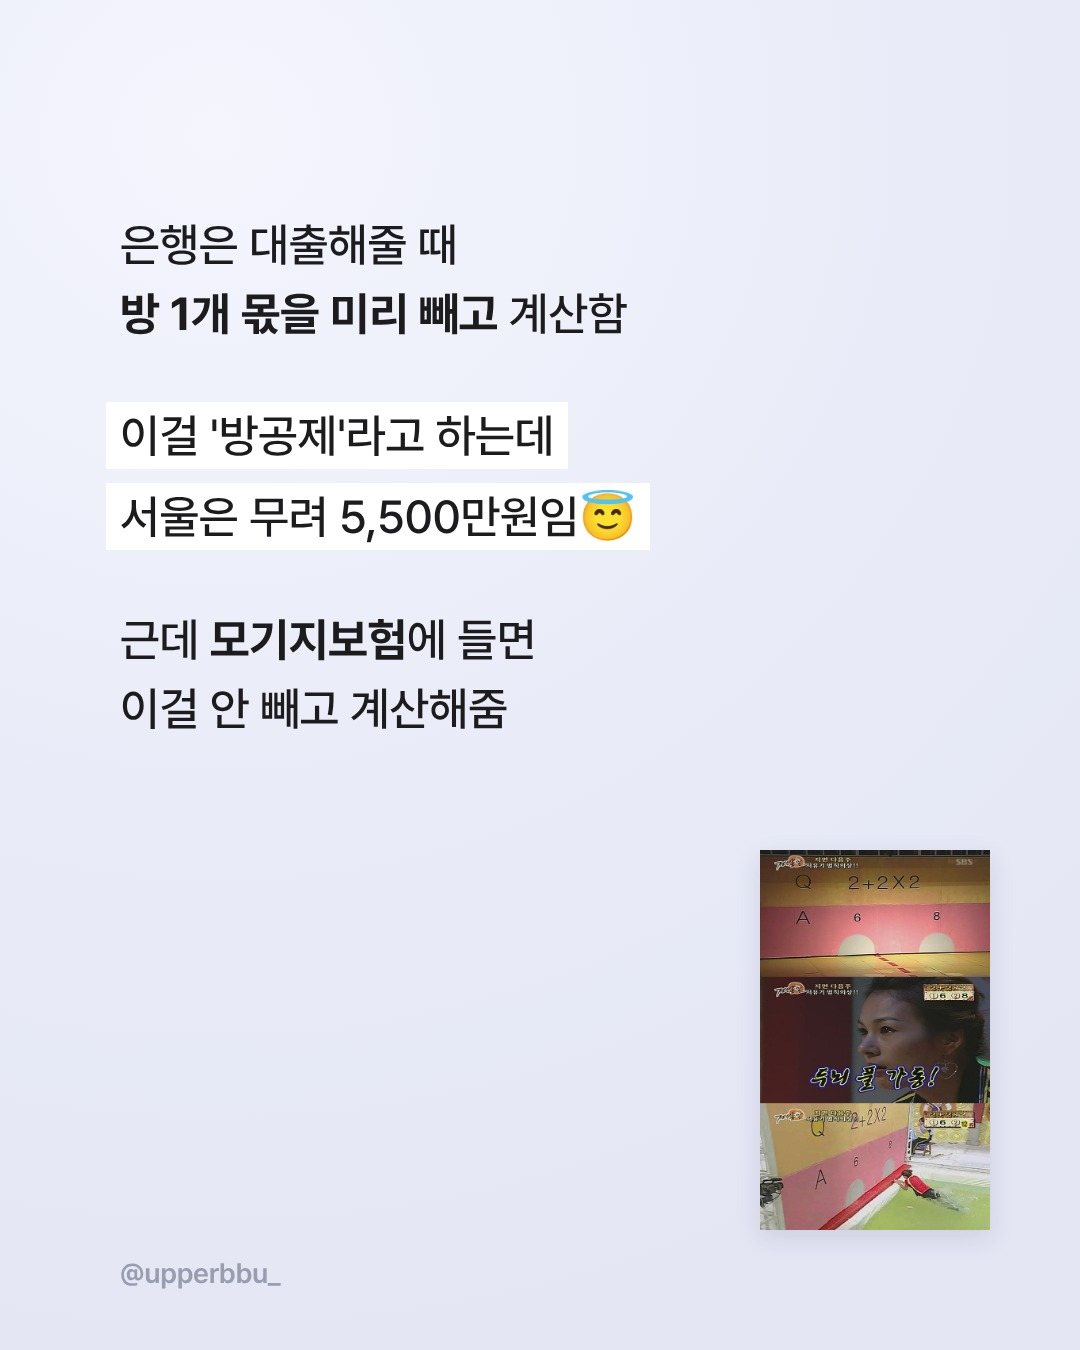
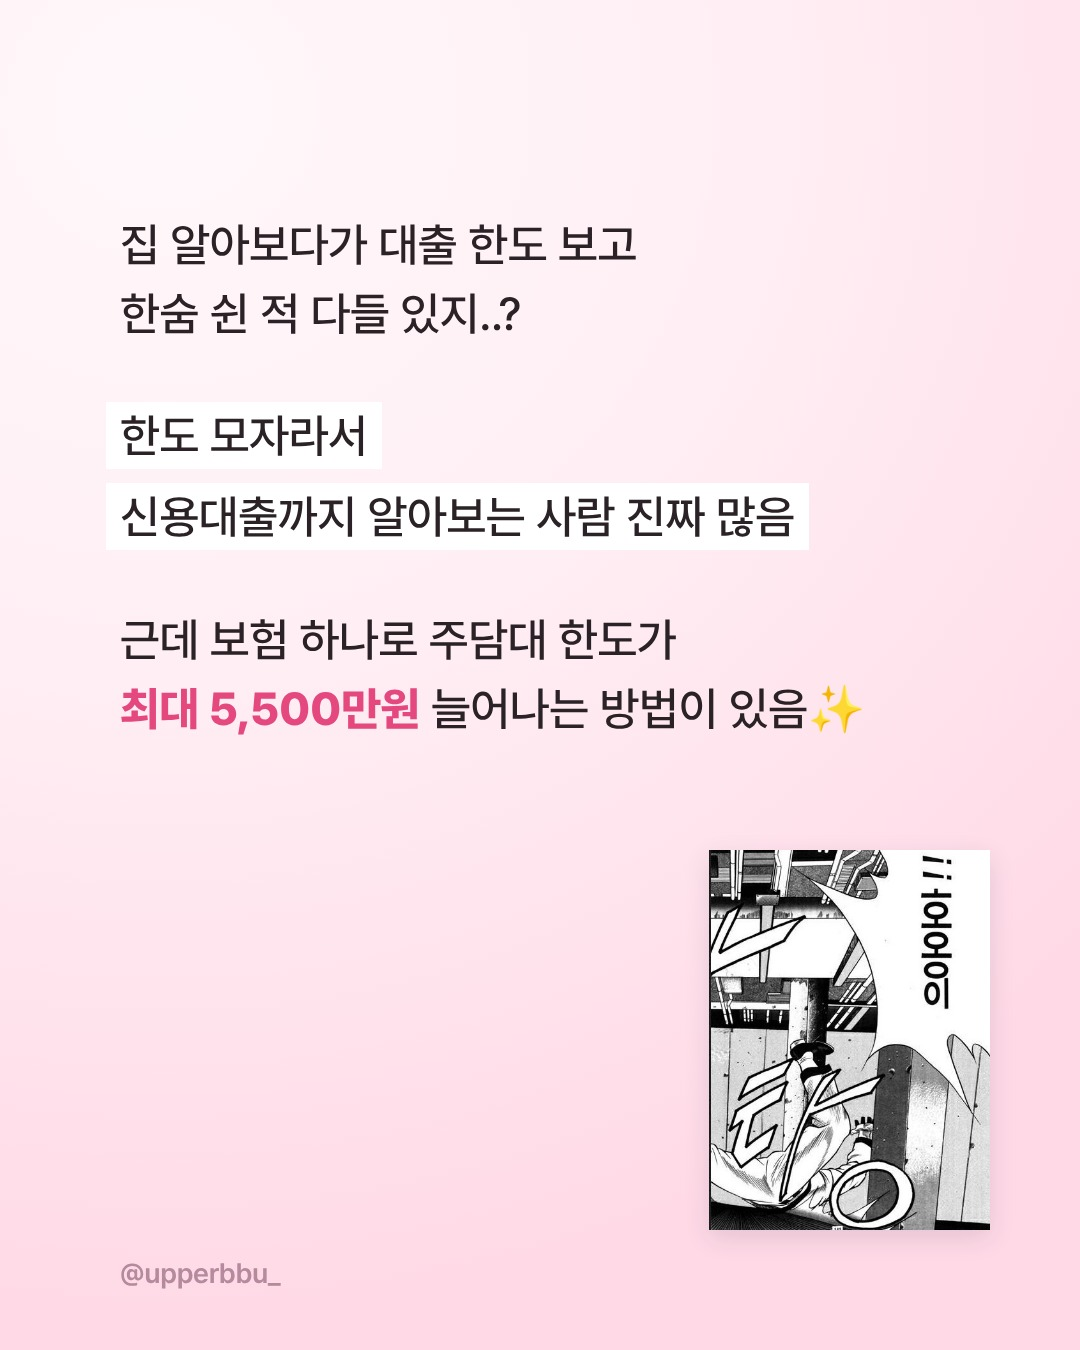
표지 레이아웃(사진+말풍선+큰 제목+색 띠) 추가, 파스텔 핑크·노랑 톤으로 변경
Claude-Session: https://claude.ai/code/session_01FfMhJ4kH7Xvbi7mmnKWXqm

diff --git a/notes.css b/notes.css
@@ -1,21 +1,38 @@
 /* 글 위주 카드 (레퍼런스: 연한 배경 + 일기체 글 + 흰 박스 강조 + 한쪽에 작은 밈), 1080×1350 */
-:root { --ink: #1c1c1e; --soft: #6b6b75; }
+/* 톤앤매너 (2026-11-22): 파스텔 핑크 + 파스텔 노랑 */
+:root { --ink: #2a2226; --soft: #8a7480; --p-pink: #FFD9E6; --p-pink-2: #FFEFF4; --p-yellow: #FFF1A8; --accent: #E5487E; }
 body { width: 1080px; background: #fff; }
 .note { width: 1080px; height: 1350px; position: relative; overflow: hidden; color: var(--ink);
   font-family: 'Pretendard', sans-serif; letter-spacing: -0.02em; word-break: keep-all;
-  background: radial-gradient(120% 90% at 20% 10%, #F4F5FD 0%, #E9ECF8 55%, #E4E6F4 100%); }
+  background: radial-gradient(120% 90% at 15% 8%, #FFF8FA 0%, var(--p-pink-2) 45%, var(--p-pink) 100%); }
+/* 짝수 장은 파스텔 노랑 배경으로 번갈아 */
+.note.alt { background: radial-gradient(120% 90% at 15% 8%, #FFFDF2 0%, #FFF8D6 45%, var(--p-yellow) 100%); }
 .note .page { position: absolute; top: 210px; left: 120px; right: 110px; bottom: 120px; }
 .note p { font: 500 46px/1.5 'Pretendard'; margin-bottom: 48px; }
 .note p:last-child { margin-bottom: 0; }
 .note b { font-weight: 700; }
 /* 흰 박스 강조 (레퍼런스의 하얀 띠) */
 .note .box { display: inline; background: #fff; box-decoration-break: clone; -webkit-box-decoration-break: clone; padding: 6px 14px; line-height: 1.75; margin-left: -14px; }
-.note .em { color: #E0195F; font-weight: 700; }
+.note .em { color: var(--accent); font-weight: 800; }
 .note .small { font: 500 34px/1.5 'Pretendard'; color: var(--soft); }
 /* 밈: 오른쪽 아래에 작게 */
 .note .meme { position: absolute; right: 90px; bottom: 120px; width: 400px; height: 400px; background-size: cover; background-position: center; }
 .note .meme.left { right: auto; left: 120px; }
-.note .meme.empty { background: repeating-linear-gradient(45deg, rgba(255,255,255,.6) 0 22px, rgba(255,255,255,.25) 22px 44px); border: 4px dashed #B8BBD0; display: flex; align-items: center; justify-content: center; text-align: center; font: 600 32px/1.5 'Pretendard'; color: #8A8DA3; padding: 30px; }
-.note .handle { position: absolute; top: auto; right: auto; left: 120px; bottom: 60px; text-align: left; font: 600 28px 'Pretendard'; color: #9A9DB0; text-shadow: none; }
+.note .meme.empty { background: repeating-linear-gradient(45deg, rgba(255,255,255,.6) 0 22px, rgba(255,255,255,.25) 22px 44px); border: 4px dashed #E3B6C6; display: flex; align-items: center; justify-content: center; text-align: center; font: 600 32px/1.5 'Pretendard'; color: #B07A90; padding: 30px; }
+.note .handle { position: absolute; top: auto; right: auto; left: 120px; bottom: 60px; text-align: left; font: 600 28px 'Pretendard'; color: #B48A9C; text-shadow: none; }
 /* 실제 밈 이미지: 원본 비율 유지, 오른쪽 아래 기준 */
 .note img.meme.img { width: auto; height: auto; max-width: 400px; max-height: 380px; background: none; box-shadow: 0 8px 24px rgba(40,40,80,.12); }
+
+/* ── 표지 (레퍼런스: 사진 꽉 + 말풍선 + 큰 흰 제목 + 색 띠 부제) ── */
+.cover { width: 1080px; height: 1350px; position: relative; overflow: hidden; background-size: cover; background-position: center; font-family: 'Pretendard', sans-serif; word-break: keep-all; }
+.cover::before { content: ''; position: absolute; inset: 0; background: linear-gradient(180deg, rgba(0,0,0,.05) 0%, rgba(0,0,0,.05) 40%, rgba(0,0,0,.45) 75%, rgba(0,0,0,.55) 100%); }
+.cover > * { position: absolute; z-index: 1; }
+.cover .bubble { top: 150px; right: 80px; max-width: 460px; background: #fff; color: #222; border: 4px solid #222; border-radius: 48% / 44%; padding: 40px 46px; font: 600 36px/1.4 'Pretendard'; text-align: center; letter-spacing: -0.03em; }
+.cover .bubble::after { content: ''; position: absolute; left: 40px; bottom: -34px; border: 22px solid transparent; border-top: 30px solid #222; transform: rotate(18deg); }
+.cover .bubble::before { content: ''; position: absolute; left: 44px; bottom: -22px; border: 18px solid transparent; border-top: 24px solid #fff; transform: rotate(18deg); z-index: 1; }
+.cover .title { left: 90px; right: 60px; bottom: 360px; color: #fff; font: 900 112px/1.18 'Pretendard'; letter-spacing: -0.05em; text-shadow: 0 4px 22px rgba(0,0,0,.35); }
+.cover .labels { left: 90px; right: 60px; bottom: 150px; display: flex; flex-direction: column; align-items: flex-start; gap: 22px; }
+.cover .labels span { font: 600 44px/1.35 'Pretendard'; color: #222; padding: 12px 26px; letter-spacing: -0.03em; }
+.cover .labels span:nth-child(1) { background: var(--p-yellow); }
+.cover .labels span:nth-child(2) { background: var(--p-pink); margin-left: 120px; }
+.cover .labels span:nth-child(3) { background: #fff; }

diff --git a/render_notes.js b/render_notes.js
@@ -24,13 +24,26 @@ const meme = (_, side, file, hint) => {
   const browser = await chromium.launch();
   const page = await browser.newPage({ viewport: { width: 1080, height: 1350 } });
   for (let i = 0; i < data.notes.length; i++) {
-    let memeHtml = '';
-    const body = data.notes[i].html.replace(/\{\{meme(-left)?:([^|}]+)(?:\|([^}]*))?\}\}/g, (...m) => { memeHtml = meme(...m); return ''; });
+    const n = data.notes[i];
+    let section;
+    if (n.cover) {
+      // 표지: { "cover": { "bg": "assets/x.jpg", "bubble": "...", "title": "줄1<br>줄2", "labels": ["...", "..."] } }
+      const c = n.cover;
+      const bg = c.bg ? `background-image:url('file://${path.resolve(base, c.bg)}')` : 'background:#f4c6d6';
+      section = `<section class="cover" style="${bg}">
+        ${c.bubble ? `<div class="bubble">${c.bubble}</div>` : ''}
+        <div class="title">${c.title}</div>
+        <div class="labels">${(c.labels || []).map(l => `<span>${l}</span>`).join('')}</div></section>`;
+    } else {
+      let memeHtml = '';
+      const body = n.html.replace(/\{\{meme(-left)?:([^|}]+)(?:\|([^}]*))?\}\}/g, (...m) => { memeHtml = meme(...m); return ''; });
+      section = `<section class="note${i % 2 ? '' : ' alt'}"><div class="page">${body}</div>${memeHtml}
+        <div class="handle">${data.handle}</div></section>`;
+    }
     const html = `<!doctype html><html><head><meta charset="utf-8">
       <link rel="stylesheet" href="file://${path.join(__dirname, 'template.css')}">
       <link rel="stylesheet" href="file://${path.join(__dirname, 'notes.css')}"></head>
-      <body><section class="note"><div class="page">${body}</div>${memeHtml}
-      <div class="handle">${data.handle}</div></section></body></html>`;
+      <body>${section}</body></html>`;
     const tmp = path.join(__dirname, `.tmp_n${i}.html`);
     fs.writeFileSync(tmp, html);
     await page.goto('file://' + tmp);

diff --git a/STYLE.md b/STYLE.md
@@ -28,7 +28,10 @@
 - 시세 차익(로또) 숫자는 실거래가 근거 없으면 쓰지 않음
 
 ## 형식 (2026-11-22 변경, 기본)
-- **글 위주 카드**: 연한 라벤더 배경 + 일기체 글 + 핵심 문단만 흰 박스 + 오른쪽 아래 작은 한국 밈 (레퍼런스: 메모장 캡처형 릴스)
+- **톤앤매너 (2026-11-22)**: 파스텔 핑크 `#FFD9E6` + 파스텔 노랑 `#FFF1A8`, 강조 핑크 `#E5487E`. 본문 장은 핑크·노랑 배경을 번갈아
+- **표지**: 사진 꽉 채우기 + 말풍선(공감 한마디) + 큰 흰 제목 2줄(타이틀처럼) + 파스텔 노랑·핑크 띠 부제 2줄. notes.json 첫 장에 `{"cover": {bg, bubble, title, labels}}`
+  - 표지 사진은 사용자 실제 사진이 가장 좋음 (없으면 기존 assets 재사용)
+- **본문**: 일기체 글 + 핵심 문단만 흰 박스 + 오른쪽 아래 작은 한국 밈
 - 렌더: `node render_notes.js weeks/<날짜>/notes.json weeks/<날짜>/notes_out` (1080×1350)
 - 문법: `<p>` 문단, `<span class="box">` 흰 박스, `<span class="em">` 핑크 강조, `{{meme:파일명|안내}}` 밈 자리
 - 밈: `weeks/<날짜>/memes/`에 넣으면 들어가고 없으면 점선 빈칸. `memes/library/`에서 골라 복사하거나 사용자가 보낸 사진 사용. AI 사진 생성 안 함
